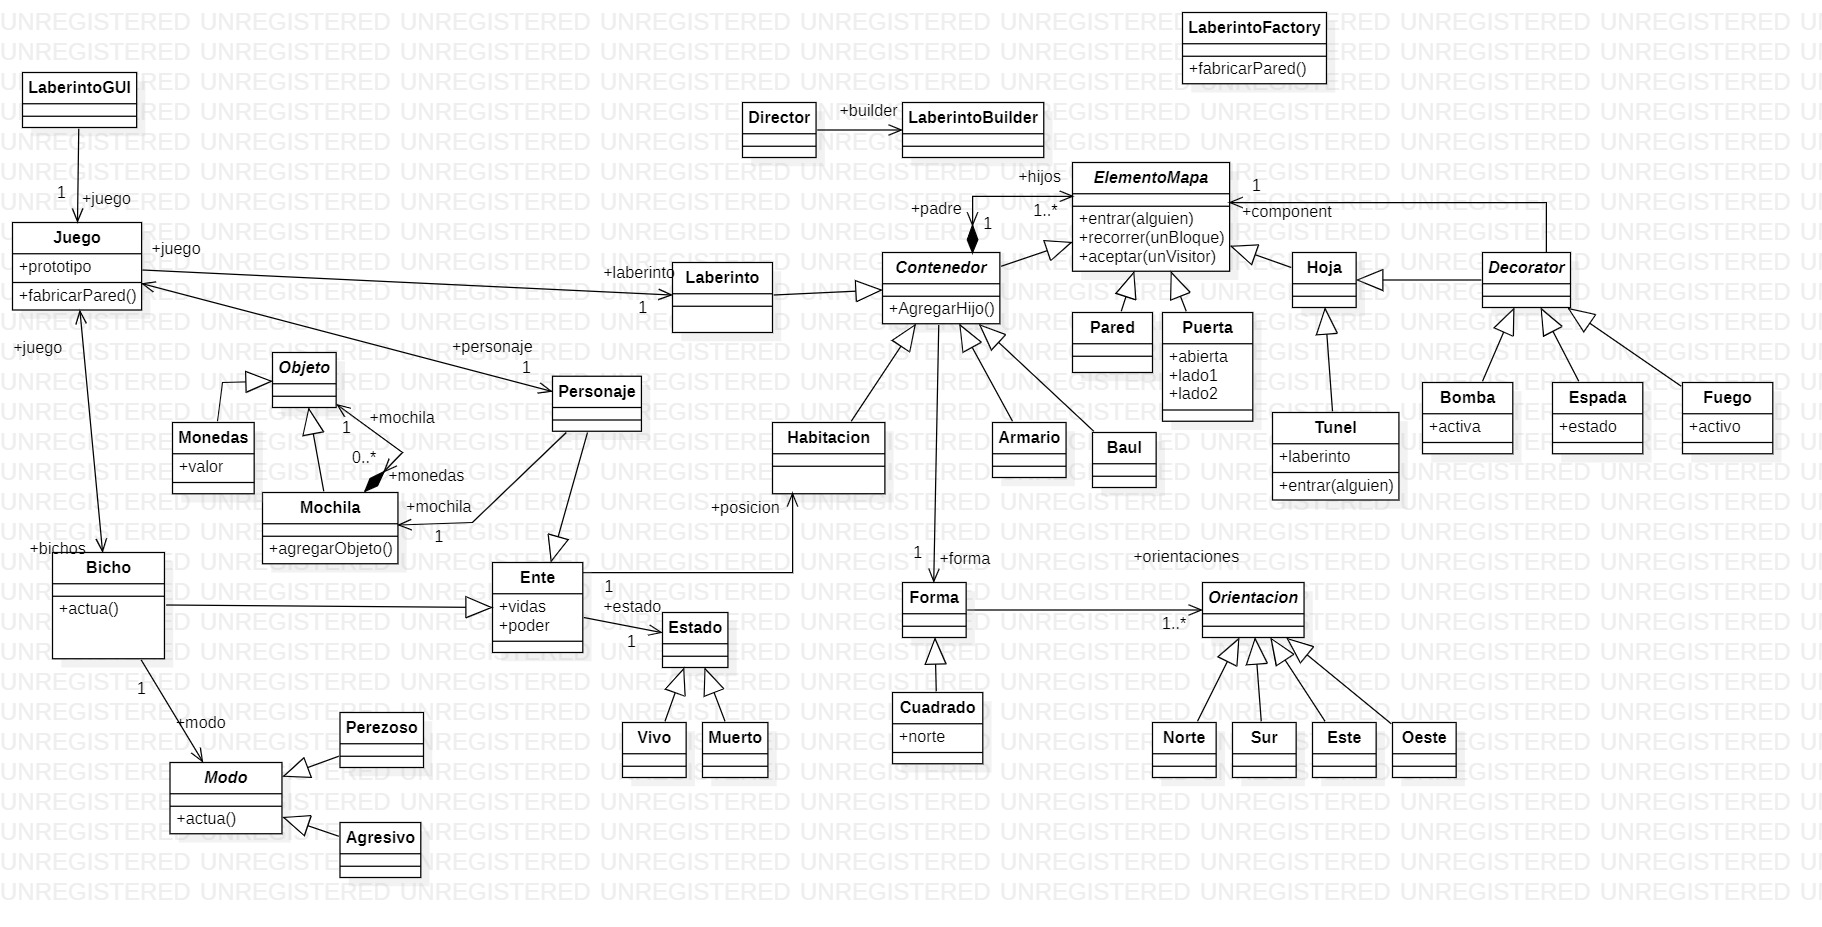
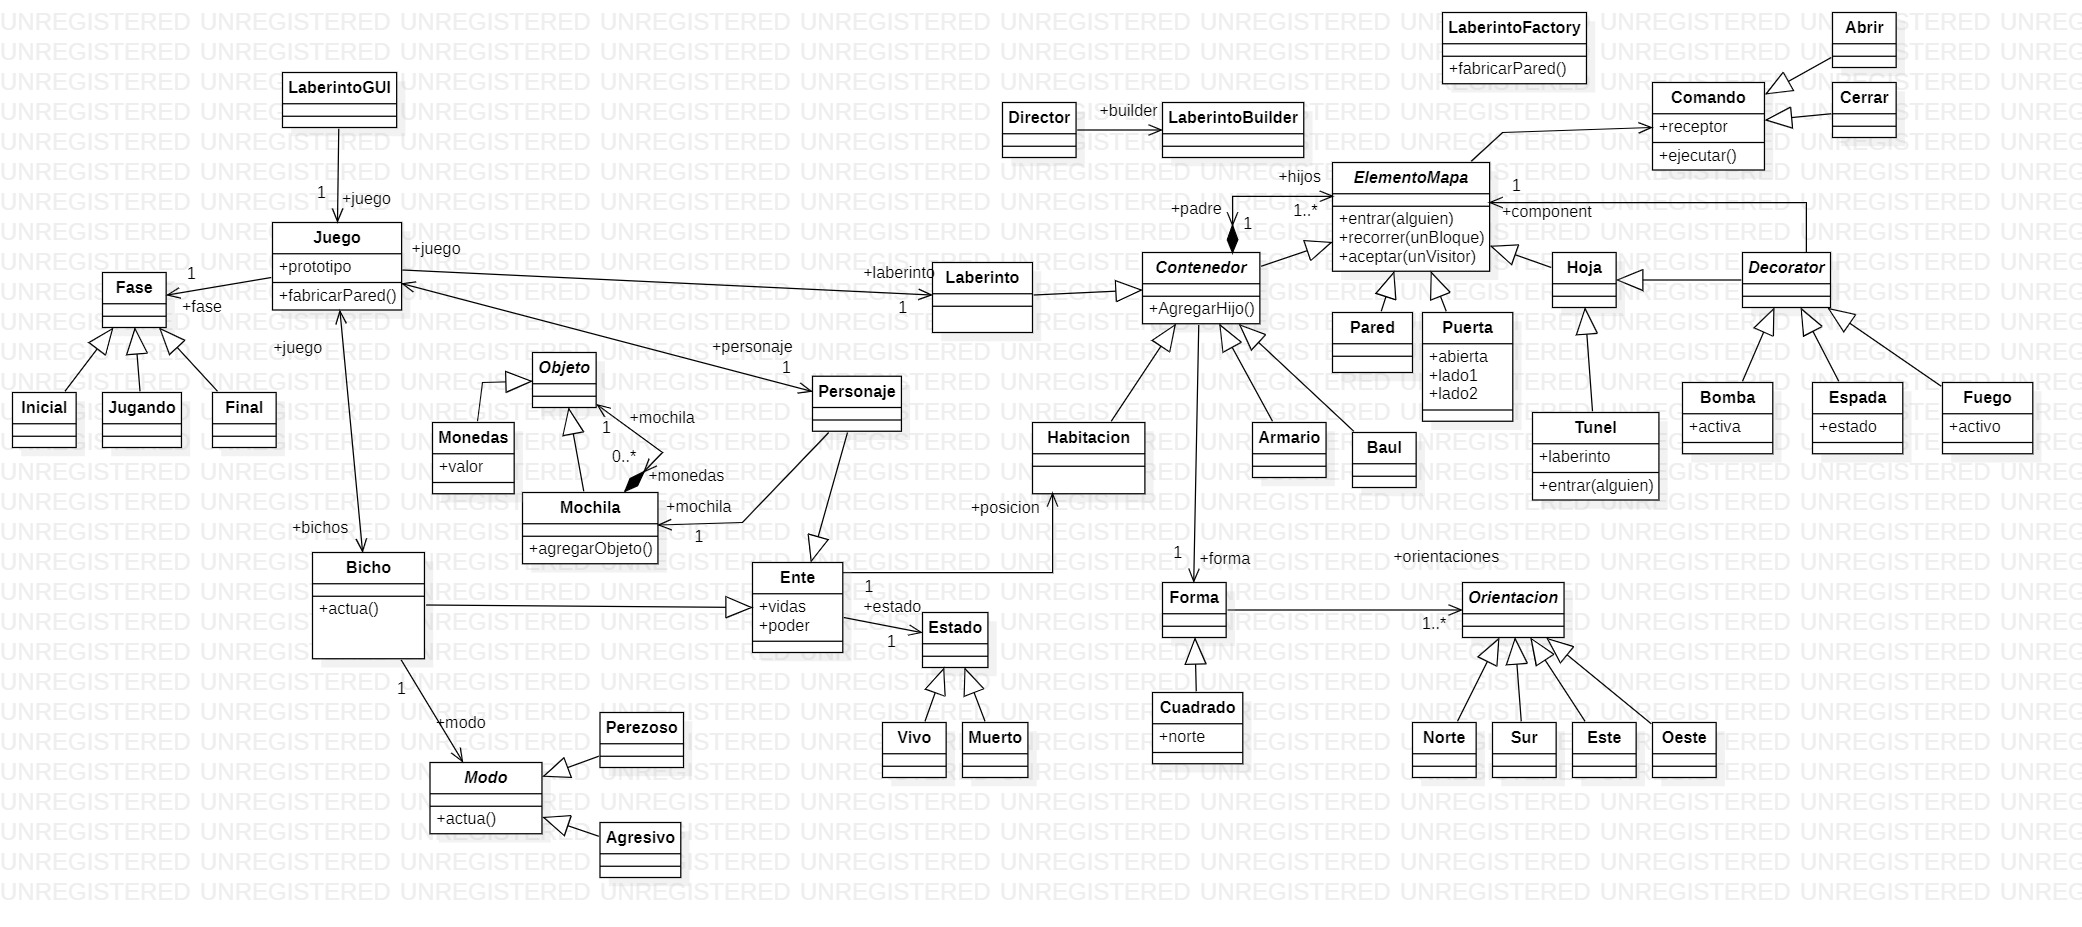
Implementacion del Command

diff --git a/Playground.py b/Playground.py
@@ -1,3 +1,4 @@
+from src.model.Abrir import Abrir
 from src.model.Director import Director
 from src.model.Juego import Juego
 from src.model.LaberintoFactory import LaberintoFactory
@@ -60,14 +61,14 @@ while True:
     while True:
         if activado:
             if abierto:
-                operacion = input("¿Qué quieres hacer?\n1. Desactivar Bombas\n2. Cerrar Puertas\n3. Lanzar Bichos\n4. Terminar Bichos\n5. Añadir personaje\n6. Entrar en tunel\n7. Añadir monedas a la mochila\n8. Quitar monedas de la mochila\n9. Salir")
+                operacion = input("¿Qué quieres hacer?\n1. Desactivar Bombas\n2. Cerrar Todas Las Puertas\n3. Lanzar Bichos\n4. Terminar Bichos\n5. Añadir personaje\n6. Entrar en tunel\n7. Añadir monedas a la mochila\n8. Quitar monedas de la mochila\n9. Abrir Puerta\n10. Salir\n")
             else:
-                operacion = input("¿Qué quieres hacer?\n1. Desactivar Bombas\n2. Abrir Puertas\n3. Lanzar Bichos\n4. Terminar Bichos\n5. Añadir personaje\n6. Entrar en tunel\n7. Añadir monedas a la mochila\n8. Quitar monedas de la mochila\n9. Salir")
+                operacion = input("¿Qué quieres hacer?\n1. Desactivar Bombas\n2. Abrir Todas Las Puertas\n3. Lanzar Bichos\n4. Terminar Bichos\n5. Añadir personaje\n6. Entrar en tunel\n7. Añadir monedas a la mochila\n8. Quitar monedas de la mochila\n9. Abrir Puerta\n10. Salir\n")
         else:
             if abierto:
-                operacion = input("¿Qué quieres hacer?\n1. Activar Bombas\n2. Cerrar Puertas\n3. Lanzar Bichos\n4. Terminar Bichos\n5. Añadir personaje\n6. Entrar en tunel\n7. Añadir monedas a la mochila\n8. Quitar monedas de la mochila\n9. Salir\n")
+                operacion = input("¿Qué quieres hacer?\n1. Activar Bombas\n2. Cerrar Todas Las Puertas\n3. Lanzar Bichos\n4. Terminar Bichos\n5. Añadir personaje\n6. Entrar en tunel\n7. Añadir monedas a la mochila\n8. Quitar monedas de la mochila\n9. Abrir Puerta\n10. Salir\n")
             else:
-                operacion = input("¿Qué quieres hacer?\n1. Activar Bombas\n2. Abrir Puertas\n3. Lanzar Bichos\n4. Terminar Bichos\n5. Añadir personaje\n6. Entrar en tunel\n7. Añadir monedas a la mochila\n8. Quitar monedas de la mochila\n9. Salir\n")
+                operacion = input("¿Qué quieres hacer?\n1. Activar Bombas\n2. Abrir Todas Las Puertas\n3. Lanzar Bichos\n4. Terminar Bichos\n5. Añadir personaje\n6. Entrar en tunel\n7. Añadir monedas a la mochila\n8. Quitar monedas de la mochila\n9. Abrir Puerta\n10. Salir\n")
 
         try:
             operacion = int(operacion)
@@ -82,6 +83,7 @@ while True:
             elif operacion == 2:
                 if abierto:
                     juego.cerrarPuertas()
+
                     abierto = False
                 else:
                     juego.abrirPuertas()
@@ -117,7 +119,17 @@ while True:
                     #Prueba de movimiento
                     #juego.personaje.irAlSur()
                     #TODO: Entrar a tunel BIEN HECHO (Esto solo para prueba)
-                    juego.laberinto.hijos[0].hijos[1].entrar(personaje)
+                    hayTunel = False
+                    for hab in juego.laberinto.hijos:
+                        for tunel in hab.hijos:
+                            if tunel.esTunel():
+                                hayTunel = True
+                                tunel.entrar(personaje)
+                                print("Entrando en tunel")
+                                break;
+                        if hayTunel:
+                            break;
+                    
                 print(juego)
                
             
@@ -169,6 +181,39 @@ while True:
                 else:
                     print("No hay ningun personaje en el laberinto")    
             elif operacion == 9:
+                if juego.personaje != None:
+                    print("¿Que puerta quieres abrir",personaje.nickname,'?')
+                    print("El personaje esta en la habitacion: ",personaje.posicion.num)
+                    print(personaje.posicion)
+                    puerta = input("1. Puerta Norte\n2. Puerta Sur\n3. Puerta Este\n4. Puerta Oeste\n")
+                    puerta = int(puerta)
+                    if puerta == 1:
+                        if juego.personaje.posicion.forma.norte.esPuerta():
+                            juego.personaje.posicion.forma.norte.comandos[0].ejecutar(juego.personaje)
+                        else:
+                            print("No hay puerta en esa dirección")
+                    elif puerta == 2:
+                        if juego.personaje.posicion.forma.sur.esPuerta():
+                            juego.personaje.posicion.forma.sur.comandos[0].ejecutar(juego.personaje)
+                        else:
+                            print("No hay puerta en esa dirección")
+                       
+                    elif puerta == 3:
+                        if juego.personaje.posicion.forma.este.esPuerta():
+                            juego.personaje.posicion.forma.este.comandos[0].ejecutar(juego.personaje)
+                        else:
+                            print("No hay puerta en esa dirección")                        
+                    elif puerta == 4:
+                        if juego.personaje.posicion.forma.oeste.esPuerta():
+                            juego.personaje.posicion.forma.oeste.comandos[0].ejecutar(juego.personaje)
+                        else:
+                            print("No hay puerta en esa dirección")
+                    else:
+                        print("\n\nOpción no válida.\n\n")
+                else:
+                    print("No hay ningun personaje en el laberinto")
+                print(juego)
+            elif operacion == 10:
                break;
             else:
                 print("\n\nOpción no válida.\n\n")

diff --git a/src/model/Puerta.py b/src/model/Puerta.py
@@ -1,11 +1,14 @@
 #!/usr/bin/python
 #-*- coding: utf-8 -*-
 
+from src.model.Abrir import Abrir
 from src.model.ElementoMapa import ElementoMapa
+from src.model.Cerrar import Cerrar
 
 class Puerta(ElementoMapa):
 
     def __init__(self):
+        super().__init__()
         self.abierta = False
         self.lado1 = None
         self.lado2 = None
@@ -48,14 +51,37 @@ class Puerta(ElementoMapa):
         else:
             print('La puerta está cerrada.')
             
-    def abrir(self):
+    # def abrir(self):
+    #     self.abierta = True
+    #     print('Puerta abierta')
+
+    def abrir(self,alguien):
         self.abierta = True
-        print('Puerta abierta')
+        if alguien is None:
+            print('Puerta abierta')
+        else:
+            print(alguien,' abre la puerta')
+            self.quitarAbrir()
 
-    def cerrar(self):
+    def quitarAbrir(self):
+        for comando in self.comandos:
+            if comando.esAbrir():
+                self.quitarComando(comando)
+                self.agregarComando(Cerrar(),self)
+
+    def cerrar(self,alguien):
         self.abierta = False
-        print('Puerta cerrada')
-
+        if alguien is None:
+            print('Puerta cerrada')
+        else:
+            print(alguien,' cierra la puerta')
+            self.quitarCerrar()
+    def quitarCerrar(self):
+        for comando in self.comandos:
+            if comando.esCerrar():
+                self.quitarComando(comando)
+                self.agregarComando(Abrir(),self)
+                
     def estaCerrada(self):
         return self.abierta
     
@@ -68,7 +94,7 @@ class Puerta(ElementoMapa):
         else:
             estado = 'Cerrada'
 
-        return f"Puerta ({estado})"
+        return f"Puerta ({estado}) Comandos:{self.comandos}"
 
 
 

diff --git a/src/model/Juego.py b/src/model/Juego.py
@@ -2,6 +2,8 @@
 #-*- coding: utf-8 -*-
 import copy
 import threading
+from src.model.Final import Final
+from src.model.Inicial import Inicial
 from src.model.Cuadrado import Cuadrado
 from src.model.Forma import Forma
 from src.model.Laberinto import Laberinto
@@ -30,6 +32,7 @@ class Juego:
         self.personaje = None
         self.prototipo = None
         self.hilos = dict()
+        self.fase = Inicial()
     
     def __str__(self):
         infoBicho = ""
@@ -86,6 +89,9 @@ class Juego:
         unBicho.juego = self
 
     def agregarPersonaje(self,unPersonaje):
+        self.fase.agregarPersonajeJuego(unPersonaje,self
+                                        )
+    def puedeAgregarPersonaje(self,unPersonaje):
         self.personaje = unPersonaje
         self.personaje.juego = self
         self.personaje.vidas = 100
@@ -112,14 +118,14 @@ class Juego:
 
     def abrirPuerta(self,unaPuerta):
         if unaPuerta.esPuerta():
-            unaPuerta.abrir()
+            unaPuerta.abrir(None)
         
     def abrirPuertas(self):
         self.laberinto.recorrer(self.abrirPuerta)
 
     def cerrarPuerta(self,unaPuerta):
         if unaPuerta.esPuerta():
-            unaPuerta.cerrar()
+            unaPuerta.cerrar(None)
     def cerrarPuertas(self):
         self.laberinto.recorrer(self.cerrarPuerta)
 
@@ -144,12 +150,16 @@ class Juego:
                 print("Fin del juego. Gana el personaje.")
             else:
                 print("Fin del juego. Han ganado los bichos.")
+            self.finJuego()
 
     def personajeMuere(self):
         print("Fin del juego.",self.personaje.nickname," ha muerto.")
         self.personaje = None
+        self.finJuego()
         self.terminarBichos()
     
+    def finJuego(self):
+        self.fase = Final()
    
     ##
 

diff --git a/LaberintoGUI.py b/LaberintoGUI.py
@@ -28,7 +28,7 @@ class LaberintoGUI():
 
     def iniciarJuego(self):
         director = Director()
-        director.procesar('laberintos/lab4Hab4Arm4BichosTunel.json')
+        director.procesar('laberintos/lab2Hab2Arm.json')
         self.juego=director.obtenerJuego()
         self.mostrarLaberinto()
         self.agregarPersonaje("Mario")
@@ -110,11 +110,11 @@ class LaberintoGUI():
                     if not abrir:
                         abrir = True
                         self.juego.abrirPuertas()
-                        pygame.display.flip()
+                        self.redibujar()
                     else:
                         abrir = False
                         self.juego.cerrarPuertas()
-                        pygame.display.flip()        
+                        self.redibujar()        
 
             
                 if keys[pygame.K_LSHIFT]:

diff --git a/src/model/LaberintoBuilder.py b/src/model/LaberintoBuilder.py
@@ -1,3 +1,4 @@
+from src.model.Abrir import Abrir
 from src.model.Agresivo import Agresivo
 from src.model.Armario import Armario
 from src.model.Baul import Baul
@@ -170,6 +171,8 @@ class LaberintoBuilder():
         cadena1 = getattr(juegoaux,'fabricar' + ori1)()
         cadena2 = getattr(juegoaux,'fabricar' + ori2)()
         puerta = self.fabricarPuerta(hab1, hab2)
+        puerta.agregarComando(Abrir(),puerta)
+        
         hab1.ponerEnElemento(cadena1, puerta)
         hab2.ponerEnElemento(cadena2, puerta)
     

diff --git a/src/model/ElementoMapa.py b/src/model/ElementoMapa.py
@@ -4,7 +4,15 @@
 class ElementoMapa:
     def __init__(self):
         self.padre = None
+        self.comandos = []
     
+    def agregarComando(self,unComando,puerta):
+        self.comandos.append(unComando)
+        unComando.receptor = puerta
+    
+    def quitarComando(self,unComando):
+        self.comandos.remove(unComando)
+
     def aceptar(self,unVisitor):
         pass
     

diff --git a/src/model/Cerrar.py b/src/model/Cerrar.py
@@ -1,0 +1,16 @@
+from src.model.Comando import Comando
+
+
+class Cerrar(Comando):
+    
+    def ejecutar(self,alguien):
+      self.receptor.cerrar(alguien)
+    
+    def esCerrar(self):
+        return True
+    
+    def __str__(self):
+       return "Cerrar"
+    
+    def __repr__(self):
+       return "Cerrar"

diff --git a/src/model/Abrir.py b/src/model/Abrir.py
@@ -1,0 +1,16 @@
+from src.model.Comando import Comando
+
+
+class Abrir(Comando):
+    
+    def ejecutar(self,alguien):
+      self.receptor.abrir(alguien)
+    
+    def esAbrir(self):
+        return True
+    
+    def __str__(self):
+       return "Abrir"
+    
+    def __repr__(self):
+       return "Abrir"

diff --git a/src/model/Fase.py b/src/model/Fase.py
@@ -1,0 +1,13 @@
+class Fase():
+
+    def esFinal(self):
+        return False
+    
+    def esInicial(self):
+        return False
+    
+    def esJugando(self):
+        return False
+    
+    def agregarPersonajeJuego(self,unPersonaje,unJuego):
+        pass

diff --git a/src/model/Comando.py b/src/model/Comando.py
@@ -1,0 +1,12 @@
+class Comando():
+    def __init__(self):
+        self.receptor = None
+    
+    def ejecutar(self,alguien):
+        pass
+    
+    def esAbrir(self):
+        return False
+    
+    def esCerrar(self):
+        return False

diff --git a/src/model/Inicial.py b/src/model/Inicial.py
@@ -1,0 +1,9 @@
+from src.model.Fase import Fase
+
+
+class Inicial(Fase):
+    def esInicial(self):
+        return True
+    
+    def agregarPersonajeJuego(self, unPersonaje, unJuego):
+        unJuego.puedeAgregarPersonaje(unPersonaje)

diff --git a/src/model/Jugando.py b/src/model/Jugando.py
@@ -1,0 +1,9 @@
+from src.model.Fase import Fase
+
+
+class Jugando(Fase):
+    def esJugando(self):
+        return True
+    
+    def agregarPersonajeJuego(self, unPersonaje, unJuego):
+        print("El juego ya ha comenzado")
